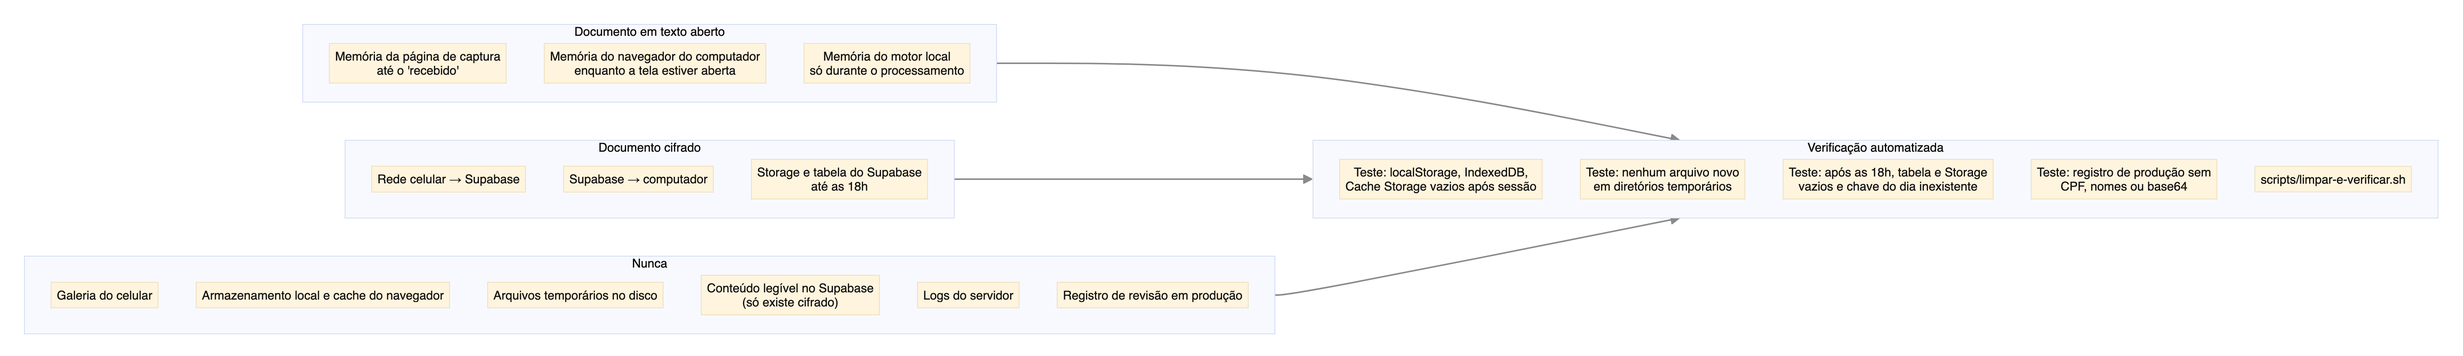
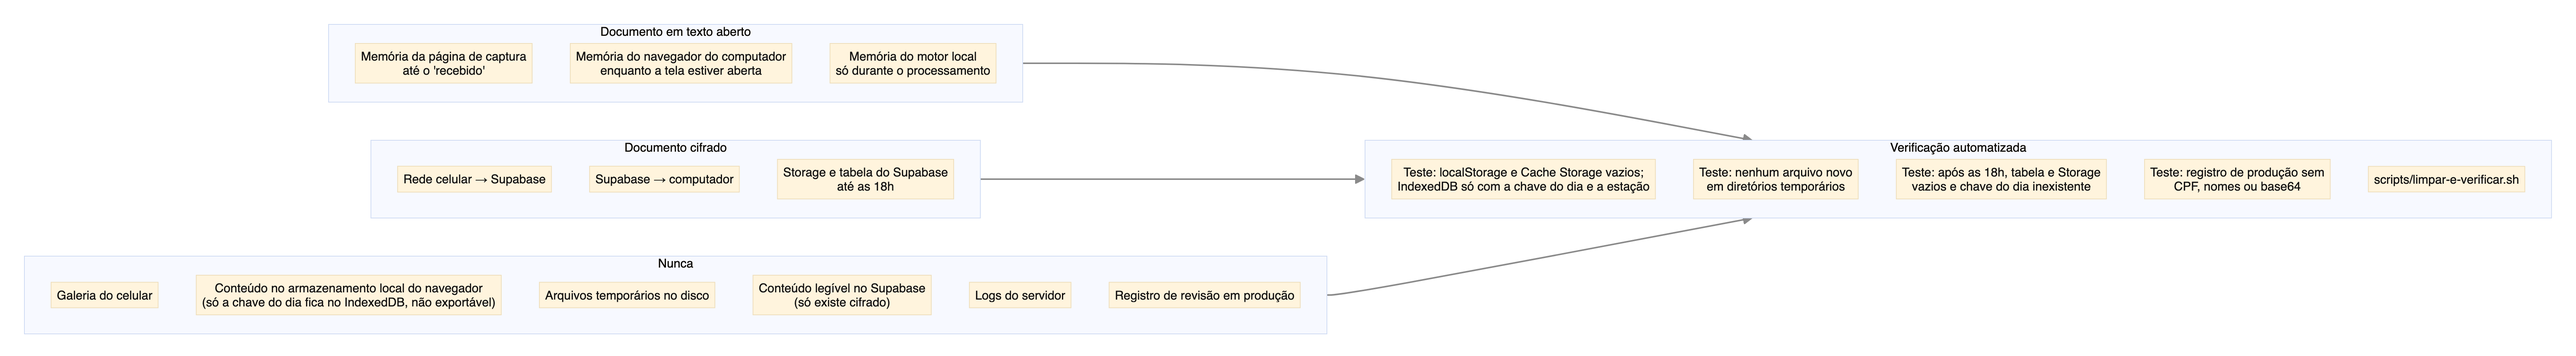
Armazenamento cifrado no Supabase até as 18h, remoção em três camadas, aviso das 17h, auditoria e perfil simulado

diff --git a/app/src/escritorio/Escritorio.tsx b/app/src/escritorio/Escritorio.tsx
@@ -7,6 +7,7 @@ import QRCode from 'qrcode';
 import Revisao, { Conferir, type CampoLido, type Conferencia, type Decisao } from './Revisao';
 import { DEMO, ITENS_DEMO } from './demo';
 import { baixarPacote } from './pacote';
+import { apagar, auditar, carregar, deTexto, destruirChaveDoDia, msAteRemocao, paraTexto, salvar, type Perfil } from './armazenamento';
 import type { RealtimeChannel } from '@supabase/supabase-js';
 import { abrirCanal, enviar, inscrever } from '../compartilhado/canal';
 import { decifrar, exportarChave, gerarChave } from '../compartilhado/cripto';
@@ -19,8 +20,12 @@ const URL_CAPTURA = (import.meta.env.VITE_URL_CAPTURA as string) || `${location.
 const URL_MOTOR = (import.meta.env.VITE_URL_MOTOR as string) || '';
 
 type Situacao = 'aguardando' | 'recebendo' | 'lendo' | 'lido' | 'nova-foto' | 'pendente';
-interface Item { doc: DocumentoPedido; situacao: Situacao; faces: Partial<Record<Face, string>>; detalhe?: string; tipo?: string; campos?: Record<string, CampoLido>; decisoes?: Record<string, Decisao>; conferencia?: Record<string, Conferencia>; conferido?: boolean; rotacao?: Partial<Record<Face, number>>; arquivos?: Partial<Record<Face, Uint8Array>> }
-type Sessao = 'montando' | 'aguardando-celular' | 'expirada' | 'pareada' | 'concluida';
+interface Item { uid?: string; previa?: string; doc: DocumentoPedido; situacao: Situacao; faces: Partial<Record<Face, string>>; detalhe?: string; tipo?: string; campos?: Record<string, CampoLido>; decisoes?: Record<string, Decisao>; conferencia?: Record<string, Conferencia>; conferido?: boolean; rotacao?: Partial<Record<Face, number>>; arquivos?: Partial<Record<Face, Uint8Array>> }
+type Sessao = 'montando' | 'aguardando-celular' | 'expirada' | 'pareada' | 'concluida' | 'recuperada';
+
+/** O que vai cifrado ao Supabase: o documento inteiro, arquivos em base64. */
+interface Guardado { docId: string; situacao: Situacao; tipo?: string; detalhe?: string; campos?: Record<string, CampoLido>; decisoes?: Record<string, Decisao>;
+  conferencia?: Record<string, Conferencia>; conferido?: boolean; rotacao?: Partial<Record<Face, number>>; arquivos?: Partial<Record<Face, string>>; previa?: string }
 
 export default function Escritorio() {
   const [escritorio, setEscritorio] = useState('Escritório Exemplo');
@@ -33,6 +38,10 @@ export default function Escritorio() {
   const [copiado, setCopiado] = useState(false);
   const [aberto, setAberto] = useState<string | null>(DEMO === 'revisao' ? 'identidade' : null);
   const [conferindo, setConferindo] = useState<string | null>(DEMO === 'conferencia' ? 'comprovante' : null);
+  const [perfil, setPerfil] = useState<Perfil>('assistente'); // perfil simulado (RF-29): não é controle de acesso
+  const [faltaMs, setFaltaMs] = useState(msAteRemocao());
+  const [aviso, setAviso] = useState<string | null>(null);
+  const salvos = useRef<Record<string, string>>({});
   const sessaoId = useRef<string>('');
   const canal = useRef<RealtimeChannel | null>(null);
   const falhaRef = useRef(simularFalha);
@@ -48,7 +57,7 @@ export default function Escritorio() {
     registrar([{ etapa: 'sessao', sessao: sessaoId.current, evento: 'link_gerado', docs: docs.length }]);
     const chave = await gerarChave();
     const url = montarLink(URL_CAPTURA, { sessao: id, chave: await exportarChave(chave), escritorio, documentos: docs });
-    setItens(docs.map((doc) => ({ doc, situacao: 'aguardando', faces: {} })));
+    setItens(docs.map((doc) => ({ uid: crypto.randomUUID(), doc, situacao: 'aguardando', faces: {} })));
     setLink(url);
     setQr(await QRCode.toDataURL(url, { margin: 1, width: 280 }));
 
@@ -86,7 +95,7 @@ export default function Escritorio() {
       const r = await ler(doc, faces, falhaRef.current);
       registrar([{ etapa: 'captura', sessao: sessaoId.current, evento: 'documento_lido', doc: doc.id, tipo: r.tipo ?? '', fotos: m.fotos ?? 0,
         faces: Object.keys(faces).length, status: r.status, ms: Math.round(performance.now() - t0) }]);
-      if (r.previa) atualizar(doc.id, { faces: { frente: r.previa } }); // PDF importado: prévia renderizada pelo motor
+      if (r.previa) atualizar(doc.id, { faces: { frente: r.previa }, previa: r.previa }); // PDF importado: prévia renderizada pelo motor
       if (r.rotacao) atualizar(doc.id, { rotacao: r.rotacao });
       atualizar(doc.id, { situacao: r.status === 'lido' ? 'lido' : 'nova-foto', detalhe: r.motivo ?? TIPOS[r.tipo ?? ''] ?? r.tipo, tipo: r.tipo, campos: r.campos, decisoes: {} });
       await enviar(c, EVENTOS.resultado, { envio: pronto.envio, doc: doc.id, status: r.status, motivo: r.motivo });
@@ -105,15 +114,71 @@ export default function Escritorio() {
   function encerrar() {
     canal.current?.unsubscribe();
     canal.current = null;
-    itens.forEach((i) => Object.values(i.faces).forEach((u) => u && URL.revokeObjectURL(u)));
+    itens.forEach((i) => Object.values(i.faces).forEach((u) => u?.startsWith('blob:') && URL.revokeObjectURL(u)));
+    const comDados = itens.filter((i) => i.uid && i.campos);
+    if (!DEMO) {
+      comDados.forEach((i) => auditar('documento_excluido', perfil, i.uid, i.tipo).catch(() => {}));
+      apagar(comDados.map((i) => i.uid!)).catch(() => {}); // apaga também a cópia cifrada no Supabase
+    }
+    salvos.current = {};
     setItens([]); setLink(''); setQr(''); setSessao('montando');
   }
 
   useEffect(() => () => { canal.current?.unsubscribe(); }, []);
 
+  // Recupera o cadastro do período, se a página foi atualizada (ADR 0007)
+  useEffect(() => {
+    if (DEMO) return;
+    carregar<Guardado>().then((docs) => {
+      if (!docs.length) return;
+      setItens(docs.map(({ id, conteudo: g }) => {
+        const arquivos = Object.fromEntries(Object.entries(g.arquivos ?? {}).map(([f, t]) => [f, deTexto(t as string)])) as Partial<Record<Face, Uint8Array>>;
+        const faces = Object.fromEntries(Object.entries(arquivos).map(([f, b]) => [f, g.previa && f === 'frente' ? g.previa
+          : URL.createObjectURL(new Blob([b as BlobPart], { type: 'image/jpeg' }))])) as Partial<Record<Face, string>>;
+        salvos.current[id] = JSON.stringify(g).length + ':' + g.situacao + JSON.stringify(g.decisoes ?? {}) + JSON.stringify(g.conferencia ?? {});
+        return { ...g, uid: id, doc: CATALOGO.find((d) => d.id === g.docId)!, faces, arquivos };
+      }).filter((i) => i.doc));
+      setSessao('recuperada');
+    }).catch(() => setAviso('Não foi possível recuperar o cadastro salvo.'));
+  }, []);
+
+  // Salva cada documento lido, cifrado, sempre que ele muda (decisões, conferência, arquivos)
+  useEffect(() => {
+    if (DEMO) return;
+    const t = setTimeout(() => {
+      for (const i of itens) {
+        if (!i.uid || !i.campos) continue;
+        const g: Guardado = { docId: i.doc.id, situacao: i.situacao, tipo: i.tipo, detalhe: i.detalhe, campos: i.campos, decisoes: i.decisoes,
+          conferencia: i.conferencia, conferido: i.conferido, rotacao: i.rotacao, previa: i.previa,
+          arquivos: Object.fromEntries(Object.entries(i.arquivos ?? {}).map(([f, b]) => [f, paraTexto(b as Uint8Array)])) };
+        const marca = JSON.stringify(g).length + ':' + g.situacao + JSON.stringify(g.decisoes ?? {}) + JSON.stringify(g.conferencia ?? {});
+        if (salvos.current[i.uid] === marca) continue;
+        salvos.current[i.uid] = marca;
+        salvar(i.uid, g).catch(() => setAviso('Não foi possível salvar o cadastro cifrado. Baixe o pacote para não perder os dados.'));
+      }
+    }, 800);
+    return () => clearTimeout(t);
+  }, [itens]);
+
+  // Aviso a partir das 17h e remoção às 18h (RF-27; ADR 0007, camada 1 no navegador)
+  useEffect(() => {
+    const t = setInterval(() => {
+      const ms = msAteRemocao();
+      setFaltaMs(ms);
+      if (ms > 23.9 * 3600_000 && !DEMO) { // acabou de passar das 18h
+        destruirChaveDoDia().catch(() => {});
+        salvos.current = {};
+        setItens([]); setSessao('montando');
+        setAviso('São 18h: os cadastros do dia foram removidos e a chave do dia foi destruída.');
+      }
+    }, 30_000);
+    return () => clearInterval(t);
+  }, []);
+
   if (sessao === 'montando') {
     return (
       <main className="escritorio">
+        {aviso && <div className="aviso aviso-alerta" role="alert">{aviso}</div>}
         <h1>Novo cadastro</h1>
         <label className="campo">Nome do escritório<input value={escritorio} onChange={(e) => setEscritorio(e.target.value)} /></label>
         <fieldset className="campo">
@@ -133,7 +198,22 @@ export default function Escritorio() {
 
   return (
     <main className="escritorio">
-      <h1>Cadastro em andamento</h1>
+      <div className="topo-escritorio">
+        <h1>Cadastro em andamento</h1>
+        <label className="perfil">Perfil (simulado)
+          <select value={perfil} onChange={(e) => setPerfil(e.target.value as Perfil)}>
+            <option value="assistente">Assistente</option><option value="advogada">Advogada</option>
+          </select>
+        </label>
+      </div>
+      {aviso && <div className="aviso aviso-alerta" role="alert">{aviso}</div>}
+      {faltaMs <= 60 * 60_000 && itens.some((i) => i.campos) && (
+        <div className="aviso aviso-alerta" role="alert">
+          <b>Às 18h, os cadastros do dia serão removidos · faltam {Math.max(1, Math.ceil(faltaMs / 60_000))} min</b>
+          Baixe o pacote do cliente para guardar os arquivos e os dados no ambiente do escritório.
+        </div>
+      )}
+      {sessao === 'recuperada' && <div className="aviso aviso-sucesso" role="status"><b>Cadastro recuperado</b>Os documentos estavam guardados cifrados no Supabase e serão removidos às 18h.</div>}
       {sessao === 'aguardando-celular' && (
         <section className="painel">
           <p>Envie o link ao cliente pelo WhatsApp ou peça para ele ler o QR code. O link vale por 5 minutos até ser aberto, e só no primeiro celular.</p>
@@ -178,7 +258,7 @@ export default function Escritorio() {
               </div>
               {total > 0 && (
                 <div className="acoes-item">
-                  <button className="btn btn-primario" onClick={() => setAberto(i.doc.id)}>{decididos < total ? 'Revisar' : 'Ver revisão'}</button>
+                  <button className="btn btn-primario" onClick={() => { setAberto(i.doc.id); if (!DEMO) auditar('documento_aberto', perfil, i.uid, i.tipo).catch(() => {}); }}>{decididos < total ? 'Revisar' : 'Ver revisão'}</button>
                   {decididos === total && (
                     <button className="btn btn-secundario" onClick={() => setConferindo(i.doc.id)}>{i.conferido ? 'Conferido ✓' : 'Conferência do cliente'}</button>
                   )}
@@ -237,6 +317,7 @@ export default function Escritorio() {
           <button className="btn btn-primario" onClick={() => {
             const docs = itens.filter((i) => i.campos).map((i) => ({ rotulo: i.doc.rotulo, tipo: i.tipo ?? '', arquivos: i.arquivos ?? {}, campos: i.campos ?? {}, decisoes: i.decisoes ?? {} }));
             baixarPacote(docs);
+            if (!DEMO) auditar('pacote_baixado', perfil).catch(() => {});
             registrar([{ etapa: 'sessao', sessao: sessaoId.current, evento: 'pacote_baixado', docs: docs.length }]);
           }}>⬇ Baixar pacote do cliente</button>
         </section>

diff --git a/app/src/escritorio/armazenamento.ts b/app/src/escritorio/armazenamento.ts
@@ -1,0 +1,134 @@
+// Armazenamento temporário cifrado (ADR 0007) e auditoria (ADR 0009), no Supabase.
+//
+// - A CHAVE DO DIA é gerada no navegador, não pode ser exportada (Web Crypto) e fica guardada no
+//   IndexedDB só para sobreviver a uma atualização da página (decisão de 11/11/2026). Às 18h ela é
+//   destruída (camada 1). Nenhum CONTEÚDO fica no navegador: documentos e dados vão cifrados ao Supabase.
+// - O Supabase apaga tudo às 18h (camada 2) e, de hora em hora, o que tiver mais de 24h (camada 3).
+// - A auditoria registra só códigos: evento, perfil, estação, documento e tipo.
+
+import { createClient, type SupabaseClient } from '@supabase/supabase-js';
+import { deBase64Url, paraBase64Url } from '../compartilhado/cripto';
+
+let cliente: SupabaseClient | null = null;
+const supabase = (): SupabaseClient => (cliente ??= createClient(import.meta.env.VITE_SUPABASE_URL as string, import.meta.env.VITE_SUPABASE_PUBLISHABLE_KEY as string, {
+  auth: { persistSession: false, autoRefreshToken: false }, // nada de sessão no navegador
+}));
+
+// ---------------------------------------------------------------- horário de Brasília
+
+/** Hora atual em Brasília (UTC−3, sem horário de verão). */
+export function agoraBrasilia(agora = new Date()): Date {
+  return new Date(agora.getTime() - 3 * 3600_000);
+}
+
+/** O "dia" de armazenamento vai das 18h de um dia às 17h59 do seguinte; o identificador é a data do fim. */
+export function periodoAtual(agora = new Date()): string {
+  const b = agoraBrasilia(agora);
+  if (b.getUTCHours() >= 18) b.setUTCDate(b.getUTCDate() + 1);
+  return b.toISOString().slice(0, 10);
+}
+
+/** Milissegundos até a próxima remoção das 18h de Brasília. */
+export function msAteRemocao(agora = new Date()): number {
+  const b = agoraBrasilia(agora);
+  const alvo = new Date(b);
+  alvo.setUTCHours(18, 0, 0, 0);
+  if (b >= alvo) alvo.setUTCDate(alvo.getUTCDate() + 1);
+  return alvo.getTime() - b.getTime();
+}
+
+// ---------------------------------------------------------------- IndexedDB (só a chave e a estação)
+
+function banco(): Promise<IDBDatabase> {
+  return new Promise((ok, falha) => {
+    const r = indexedDB.open('extracao-estudo', 1);
+    r.onupgradeneeded = () => r.result.createObjectStore('chaves');
+    r.onsuccess = () => ok(r.result);
+    r.onerror = () => falha(r.error);
+  });
+}
+
+async function idb<T>(modo: IDBTransactionMode, f: (s: IDBObjectStore) => IDBRequest): Promise<T> {
+  const db = await banco();
+  return new Promise((ok, falha) => {
+    const req = f(db.transaction('chaves', modo).objectStore('chaves'));
+    req.onsuccess = () => ok(req.result as T);
+    req.onerror = () => falha(req.error);
+  });
+}
+
+/** Código aleatório deste navegador. Não identifica pessoa nem máquina. */
+export async function estacao(): Promise<string> {
+  let id = await idb<string | undefined>('readonly', (s) => s.get('estacao'));
+  if (!id) {
+    id = crypto.randomUUID();
+    await idb('readwrite', (s) => s.put(id, 'estacao'));
+  }
+  return id;
+}
+
+/** Chave do período atual. Chaves de períodos anteriores são destruídas aqui também. */
+export async function chaveDoDia(): Promise<CryptoKey> {
+  const periodo = periodoAtual();
+  const salva = await idb<{ periodo: string; chave: CryptoKey } | undefined>('readonly', (s) => s.get('chave-do-dia'));
+  if (salva && salva.periodo === periodo) return salva.chave;
+  const chave = await crypto.subtle.generateKey({ name: 'AES-GCM', length: 256 }, false, ['encrypt', 'decrypt']);
+  await idb('readwrite', (s) => s.put({ periodo, chave }, 'chave-do-dia'));
+  return chave;
+}
+
+/** Camada 1 da remoção: sem a chave, qualquer cópia no Supabase (ou em backup) fica ilegível. */
+export async function destruirChaveDoDia(): Promise<void> {
+  await idb('readwrite', (s) => s.delete('chave-do-dia'));
+}
+
+// ---------------------------------------------------------------- documentos cifrados
+
+export async function salvar(id: string, conteudo: object): Promise<void> {
+  const [chave, est] = await Promise.all([chaveDoDia(), estacao()]);
+  const iv = crypto.getRandomValues(new Uint8Array(12));
+  const cifrado = new Uint8Array(await crypto.subtle.encrypt({ name: 'AES-GCM', iv }, chave, new TextEncoder().encode(JSON.stringify(conteudo))));
+  const { error } = await supabase().from('cadastros_cifrados').upsert({
+    id, estacao: est, iv: paraBase64Url(iv), conteudo: paraBase64Url(cifrado), atualizado_em: new Date().toISOString(),
+  });
+  if (error) throw error;
+}
+
+/** Documentos deste navegador que ainda podem ser decifrados com a chave do dia. */
+export async function carregar<T>(): Promise<{ id: string; conteudo: T }[]> {
+  const [chave, est] = await Promise.all([chaveDoDia(), estacao()]);
+  const { data, error } = await supabase().from('cadastros_cifrados').select('id, iv, conteudo, criado_em').eq('estacao', est).order('criado_em');
+  if (error) throw error;
+  const saida: { id: string; conteudo: T }[] = [];
+  for (const linha of data ?? []) {
+    try {
+      const aberto = await crypto.subtle.decrypt({ name: 'AES-GCM', iv: deBase64Url(linha.iv) }, chave, deBase64Url(linha.conteudo));
+      saida.push({ id: linha.id, conteudo: JSON.parse(new TextDecoder().decode(aberto)) as T });
+    } catch {
+      // cifrado com a chave de outro período: ilegível por definição, e será removido pelo servidor
+    }
+  }
+  return saida;
+}
+
+export async function apagar(ids: string[]): Promise<void> {
+  if (!ids.length) return;
+  const { error } = await supabase().from('cadastros_cifrados').delete().in('id', ids);
+  if (error) throw error;
+}
+
+// ---------------------------------------------------------------- auditoria (ADR 0009)
+
+export type EventoAuditoria = 'documento_aberto' | 'pacote_baixado' | 'documento_excluido';
+export type Perfil = 'assistente' | 'advogada';
+const TIPOS = new Set(['cnh', 'cin', 'rg', 'nfe', 'boleto', 'fatura', 'nao_reconhecido']);
+
+export async function auditar(evento: EventoAuditoria, perfil: Perfil, documento?: string, tipo?: string): Promise<void> {
+  const est = await estacao();
+  await supabase().from('auditoria').insert({ evento, perfil, estacao: est, documento: documento ?? null, tipo: tipo && TIPOS.has(tipo) ? tipo : null });
+}
+
+// ---------------------------------------------------------------- conversões para guardar arquivos
+
+export const paraTexto = (b: Uint8Array) => paraBase64Url(b);
+export const deTexto = (t: string) => deBase64Url(t);

diff --git a/app/src/escritorio/armazenamento.test.ts b/app/src/escritorio/armazenamento.test.ts
@@ -1,0 +1,17 @@
+import { describe, expect, it } from 'vitest';
+import { msAteRemocao, periodoAtual } from './armazenamento';
+
+describe('horário da remoção (18h de Brasília = 21h UTC)', () => {
+  it('antes das 18h, o período é o próprio dia', () => {
+    expect(periodoAtual(new Date('2026-11-12T20:59:00Z'))).toBe('2026-11-12'); // 17h59 em Brasília
+  });
+
+  it('a partir das 18h, começa o período do dia seguinte (a chave antiga deixa de valer)', () => {
+    expect(periodoAtual(new Date('2026-11-12T21:00:00Z'))).toBe('2026-11-13'); // 18h00 em Brasília
+  });
+
+  it('calcula o tempo até a remoção para o aviso das 17h', () => {
+    expect(msAteRemocao(new Date('2026-11-12T20:00:00Z'))).toBe(60 * 60_000); // 17h → falta 1 hora
+    expect(msAteRemocao(new Date('2026-11-12T21:00:00Z'))).toBe(24 * 60 * 60_000); // 18h → próxima amanhã
+  });
+});

diff --git a/app/src/escritorio/escritorio.css b/app/src/escritorio/escritorio.css
@@ -66,3 +66,6 @@ body { background: var(--cor-fundo-suave); }
 .foto-area { align-items: center; }
 .pacote { display: flex; gap: 16px; align-items: center; justify-content: space-between; flex-wrap: wrap; }
 .pacote .btn { width: auto; }
+.topo-escritorio { display: flex; justify-content: space-between; align-items: center; gap: 16px; flex-wrap: wrap; }
+.perfil { display: flex; gap: 8px; align-items: center; font-size: var(--t-apoio); color: var(--cor-texto-suave); }
+.perfil select { font: inherit; padding: 6px 10px; border-radius: 8px; border: 1px solid var(--cor-borda); }

diff --git a/docs/evolucao.md b/docs/evolucao.md
@@ -27,6 +27,7 @@ O histórico completo de alterações está no [Git](https://github.com/marcosvp
 | 11/11/2026 | Figma organizado por versão: página "v1.0 · Wireframes" e página "v1.1 · Produto", com nota das mudanças | [Figma](https://www.figma.com/design/SRwA8xYCHp8B8c2QtufKyv) |
 | 11/11/2026 | Versão 1.2 das telas (importar dos arquivos e conferência do cliente) no projeto e no Figma, sem apagar as versões anteriores. Corrigido: a imagem da tela 3 da 1.1 tinha sido sobrescrita e foi restaurada do Git | [Telas finais](ux/telas-finais.md) |
 | 11/11/2026 | Pacote do cliente (HU-15, RF-26): .zip gerado no navegador com os arquivos originais, dados em JSON e CSV (com a situação de cada campo) e LEIA-ME; nomes de arquivo neutros | [Etapa 6, roadmap](etapas/06-priorizacao.md#6-roadmap) |
+| 11/11/2026 | Armazenamento cifrado no Supabase até as 18h (o cadastro sobrevive a uma atualização da página), aviso das 17h, remoção às 18h nas três camadas e auditoria no Supabase | [ADR 0007](decisoes/0007-retencao-temporaria-e-purga-diaria.md), [ADR 0009](decisoes/0009-registro-de-auditoria-no-estudo.md) |
 | 11/11/2026 | Incremento 4, medição: conferência do cliente na tela do escritório, registro de tempos e fotos por documento, relatório dos resultados-chave (`scripts/relatorio.py`) | [Etapa 5](etapas/05-metricas.md) |
 
 ---
@@ -45,6 +46,7 @@ Decisões que mudaram depois de tomadas. Nenhuma foi apagada: o documento origin
 | Venda direta a escritórios | Licenciamento para softwares jurídicos | Business case: venda direta exigiria 14% a 28% do mercado alcançável | [Etapa 7](etapas/07-business-case.md) |
 | Motor no Mac também em produção | Servidor próprio na nuvem | Business case: cada escritório precisaria de um Mac | [ADR 0010](decisoes/0010-motor-em-producao.md) |
 | As duas páginas na Vercel | Aplicação do escritório servida pelo motor no Mac | Prova de conceito: o Safari bloqueia a página da Vercel chamando o Mac | [ADR 0011](decisoes/0011-aplicacao-do-escritorio-servida-pelo-motor.md) |
+| Nada fica no navegador | Só a chave do dia, não exportável, fica no navegador; nenhum conteúdo | Sem a chave, atualizar a página tornaria o cadastro do dia ilegível | [ADR 0007](decisoes/0007-retencao-temporaria-e-purga-diaria.md#implementação-11112026) |
 | IA de texto só se preciso | IA de texto instalada como complemento das regras | Teste de generalização: regras sozinhas cobriam 27% dos layouts novos | [Etapa 10](etapas/10-motor.md) |
 
 ---

diff --git a/docs/decisoes/0007-retencao-temporaria-e-purga-diaria.md b/docs/decisoes/0007-retencao-temporaria-e-purga-diaria.md
@@ -59,3 +59,14 @@ O pacote baixado (arquivos e dados confirmados) sai do sistema e fica sob respon
 - Como a chave do dia fica num único navegador, outras estações não leem os dados no estudo de caso. Compartilhar a chave entre estações exige uma decisão futura.
 - Um cadastro iniciado perto das 18h pode ser perdido se não for baixado a tempo; o aviso reduz, mas não elimina, esse risco.
 - Os testes de privacidade passam a verificar: tabela e Storage vazios após as 18h, nenhum item com mais de 24h e chave do dia inexistente após as 18h.
+
+## Implementação (11/11/2026)
+
+Implementado com dois ajustes, decididos ao construir:
+
+| Previsto | Implementado | Motivo |
+|---|---|---|
+| Fotos no Supabase Storage | Fotos **dentro da linha cifrada** da tabela `cadastros_cifrados` | O Storage não permite apagar arquivos por SQL; com tudo na tabela, a remoção das 18h e o limite de 24h ficam inteiramente no banco ([migração](../../supabase/migrations/20261111220000_armazenamento_cifrado_e_auditoria.sql)) |
+| Chave do dia só no navegador, sem dizer onde | Chave **não exportável guardada no IndexedDB**, apagada às 18h | Sem guardar a chave, uma atualização da página tornaria ilegíveis os dados do dia. Decisão do autor: a regra passa de "nada no navegador" para "**nenhum conteúdo** no navegador" |
+
+Verificado no projeto Supabase: as duas tarefas agendadas existem (`remocao-18h`, às 21h UTC, e `limite-24h`, de hora em hora), e cada execução grava o total removido em `registro_remocao`.

diff --git a/docs/decisoes/0009-registro-de-auditoria-no-estudo.md b/docs/decisoes/0009-registro-de-auditoria-no-estudo.md
@@ -60,3 +60,9 @@ O estudo não tem login. Um seletor na tela define o perfil ativo (assistente ou
 - O estudo demonstra uma trilha de auditoria funcionando, e o teste de privacidade ganha uma verificação nova: a tabela `auditoria` não contém dados pessoais.
 - O registro mostra "quem" só como perfil simulado. Ele demonstra o formato, não a garantia de autoria.
 - Dois registros convivem com propósitos diferentes: o de **revisão** (ADR 0004, local) mede a acurácia, e o de **auditoria** (este ADR, no Supabase) registra quem acessou o quê.
+
+## Implementação (11/11/2026)
+
+Tabela `auditoria` no Supabase ([migração](../../supabase/migrations/20261111220000_armazenamento_cifrado_e_auditoria.sql)), com os três eventos, o perfil simulado e restrições que recusam qualquer valor fora das listas. Verificado: a inclusão funciona, a tentativa de apagar não apaga nada e um texto livre no lugar do evento é recusado pelo banco.
+
+Gatilhos na aplicação do escritório: **documento_aberto** ao abrir a revisão, **pacote_baixado** ao baixar o pacote do cliente e **documento_excluido** ao encerrar a sessão, que também apaga a cópia cifrada no Supabase.

diff --git a/docs/arquitetura/fluxogramas.md b/docs/arquitetura/fluxogramas.md
@@ -366,7 +366,7 @@ flowchart LR
   subgraph NUNCA["Nunca"]
     direction TB
     Z1["Galeria do celular"]
-    Z2["Armazenamento local e cache do navegador"]
+    Z2["Conteúdo no armazenamento local do navegador<br/>(só a chave do dia fica no IndexedDB, não exportável)"]
     Z3["Arquivos temporários no disco"]
     Z4["Conteúdo legível no Supabase<br/>(só existe cifrado)"]
     Z5["Logs do servidor"]
@@ -374,7 +374,7 @@ flowchart LR
   end
   subgraph PROVA["Verificação automatizada"]
     direction TB
-    V1["Teste: localStorage, IndexedDB,<br/>Cache Storage vazios após sessão"]
+    V1["Teste: localStorage e Cache Storage vazios;<br/>IndexedDB só com a chave do dia e a estação"]
     V2["Teste: nenhum arquivo novo<br/>em diretórios temporários"]
     V3["Teste: após as 18h, tabela e Storage<br/>vazios e chave do dia inexistente"]
     V4["Teste: registro de produção sem<br/>CPF, nomes ou base64"]
